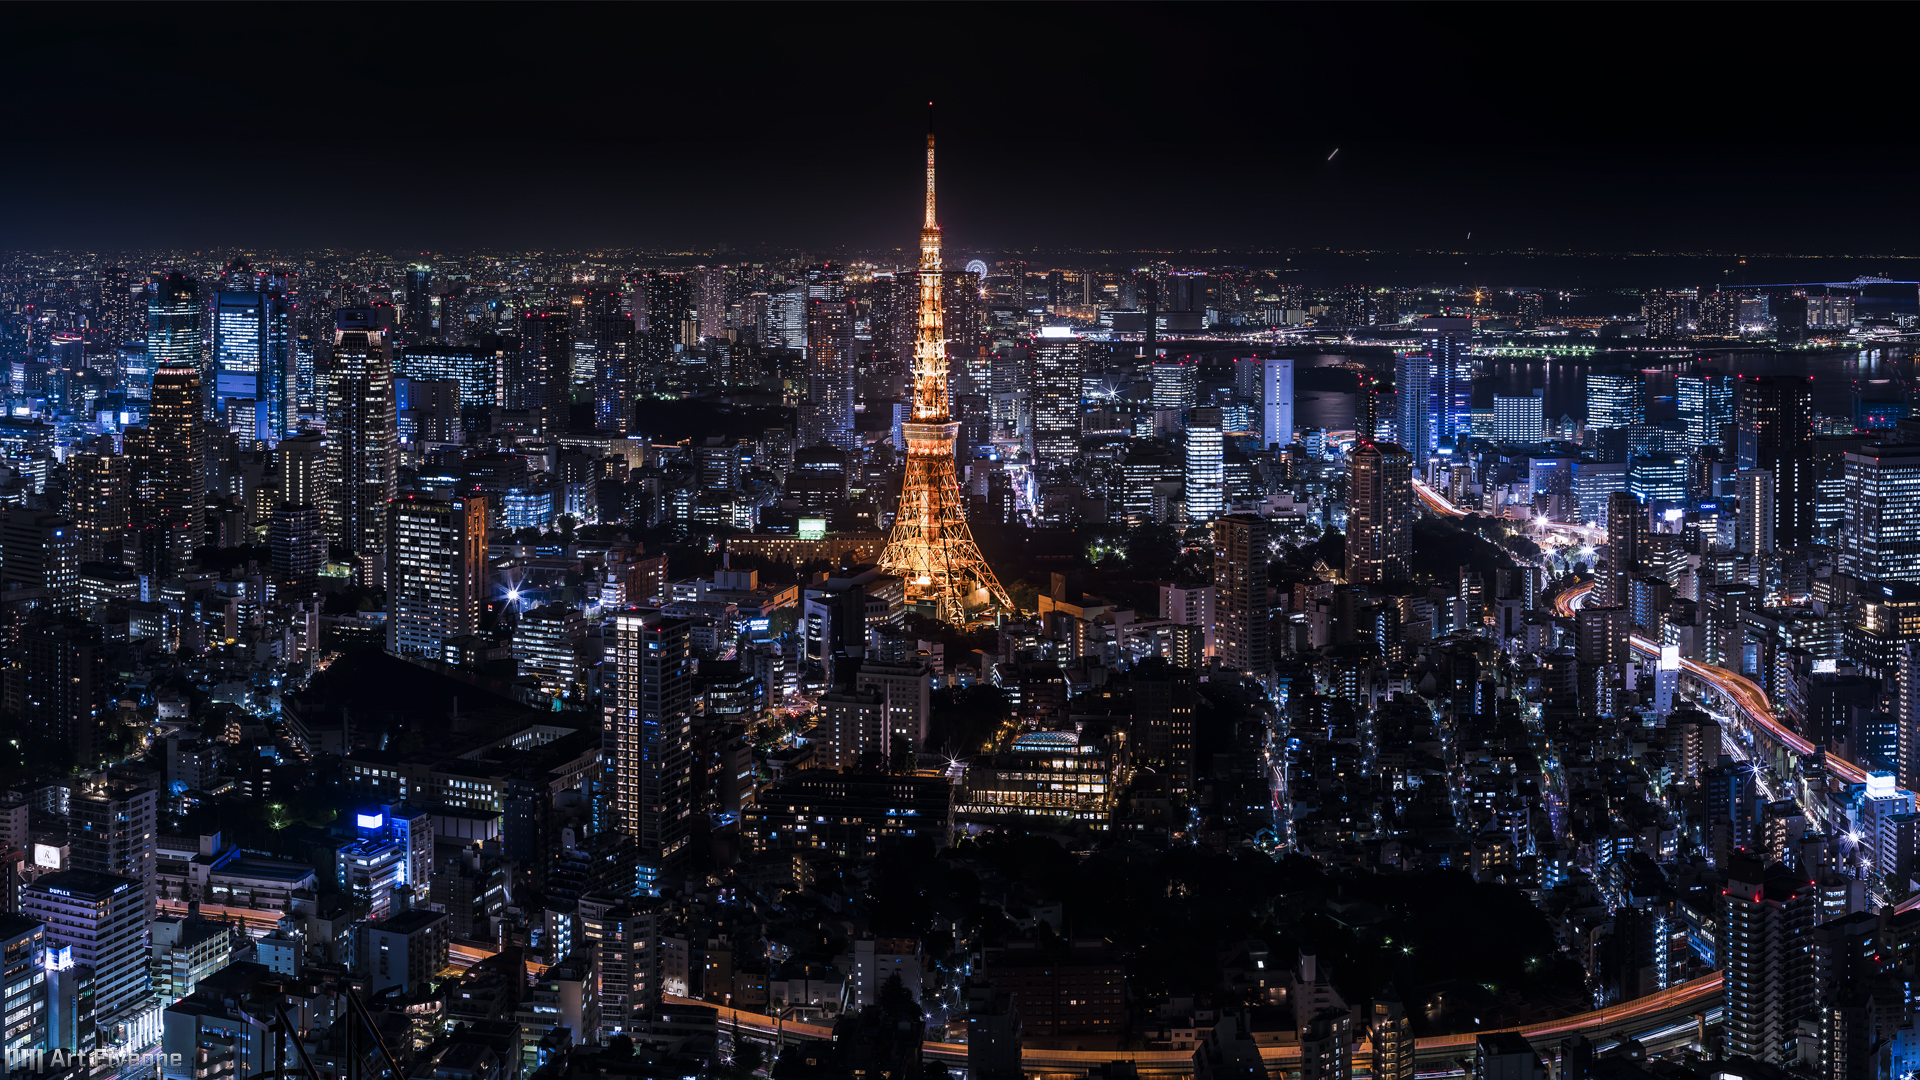
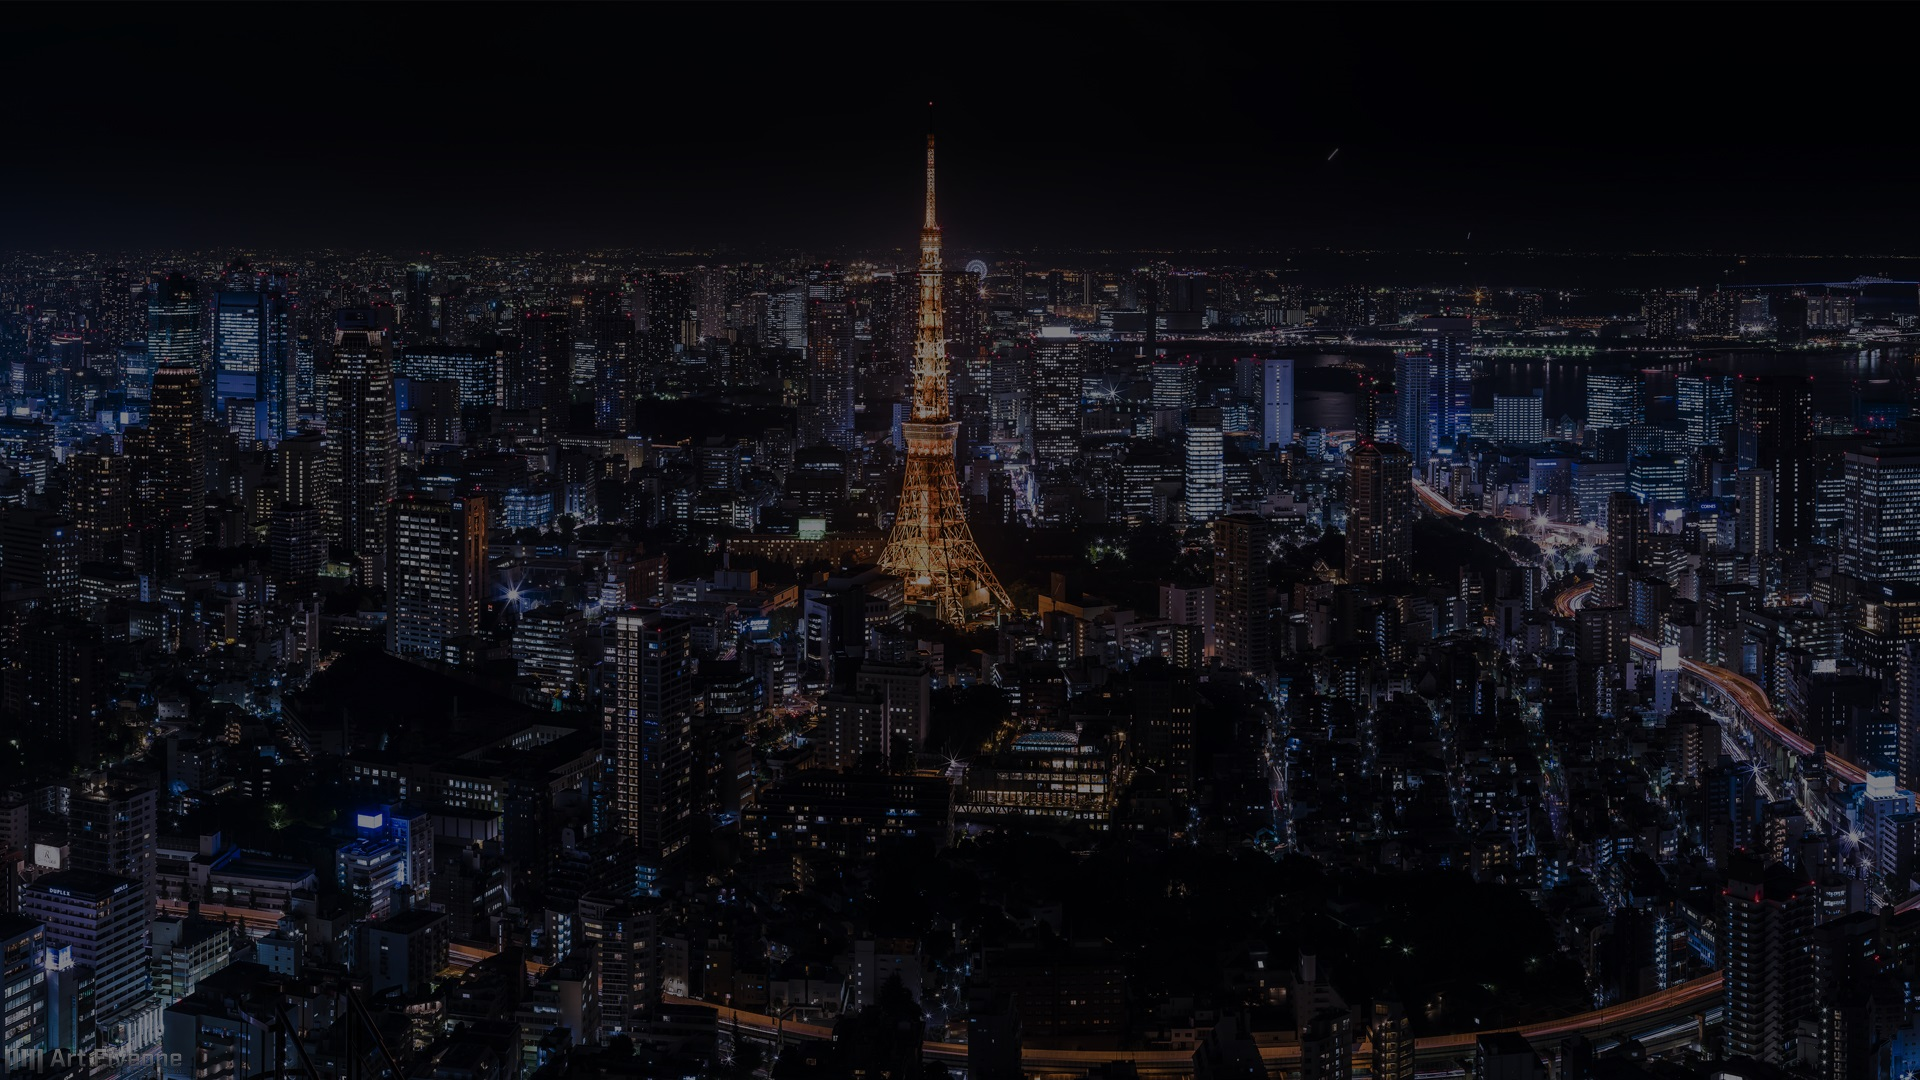
comment

Changed region(s): [[0.0, 0.1528, 1.0, 1.0], [0.375, 0.825, 0.4062, 0.8861], [0.6562, 0.8861, 0.6875, 0.9167]]

diff --git a/css/style.css b/css/style.css
@@ -4,6 +4,11 @@ body{
   background-attachment: fixed;
   background-position: center center;
 }
+@media only screen and (max-width: 767px) {
+  body {
+background-image: url(../img/26.jpg);
+  }
+}
 body::before{
   content: " ";
   background: #000;
@@ -19,7 +24,7 @@ body::before{
 #particles-js{
     height:100%;
     width:100%;
-    position: absolute;
+    position: fixed;
     top: 0;
     left: 0;
     bottom: 0;
@@ -27,3 +32,51 @@ body::before{
     z-index: 0;
     display: block;
   }
+  body, html, main {
+    /* important */
+    height: 100%;
+}
+  
+.cd-fixed-bg {
+    min-height: 100%;
+    background-size: cover;
+    background-attachment: fixed;
+    background-repeat: no-repeat;
+    background-position: center center;
+}
+  
+.cd-fixed-bg.cd-bg-1 {
+  background-image: url("../img/26.jpg");
+}
+.cd-fixed-bg.cd-bg-2 {
+  background-image: url("../img/29.jpg");
+}
+.cd-fixed-bg.cd-bg-3 {
+  background-image: url("../img/28.jpg");
+}
+.cd-fixed-bg.cd-bg-4 {
+  background-image: url("../img/27.jpg");
+}
+  
+.cd-scrolling-bg {
+    min-height: 100%;
+}
+.cd-scrolling-bg.cd-color-1 {
+  background-color: #696969;
+  color: #ffffff;
+}
+.cd-scrolling-bg.cd-color-2 {
+  background-color: #99a478;
+  color: #3d3536;
+}
+.cd-scrolling-bg.cd-color-3 {
+  background-color: #708090;
+  color: #000000;
+}
+.cd-scrolling-bg.cd-color-4 {
+  background-color: #b4d7a8;
+  color: #3d3536;
+}
+.text{
+z-index: 3;
+}

diff --git a/index.html b/index.html
@@ -7,7 +7,53 @@
 <link rel="stylesheet" type="text/css" href="css/reset.css"/>
 </head>
 <body>
-<div id="particles-js"></div>
+<main>
+    <div class="cd-fixed-bg cd-bg-1">
+        <h1>見出し</h1>
+    </div> 
+    <div class="cd-scrolling-bg cd-color-1 text">
+        <div class="cd-container">
+            <p>
+                コンテンツ
+            </p>
+        </div> 
+    </div>
+ 
+    <div class="cd-fixed-bg cd-bg-2">
+        <h1>見出し</h1>
+    </div> 
+  
+    <div class="cd-scrolling-bg cd-color-2 text">
+        <div class="cd-container">
+            <p>
+                コンテンツ
+            </p>
+        </div> 
+    </div> 
+        <div class="cd-fixed-bg cd-bg-3">
+        <h1>見出し</h1>
+    </div> 
+  
+    <div class="cd-scrolling-bg cd-color-3 text">
+        <div class="cd-container">
+            <p>
+                コンテンツ
+            </p>
+        </div> 
+    </div>
+    <div class="cd-fixed-bg cd-bg-4">
+        <h1>見出し</h1>
+    </div> 
+  
+    <div class="cd-scrolling-bg cd-color-4 text">
+        <div class="cd-container">
+            <p>
+                コンテンツ
+            </p>
+        </div> 
+    </div> 
+</main>
+        <div id="particles-js"></div>
 <script src="js/particles.js"></script>
 <script src="js/app.js"></script>
 </body>
